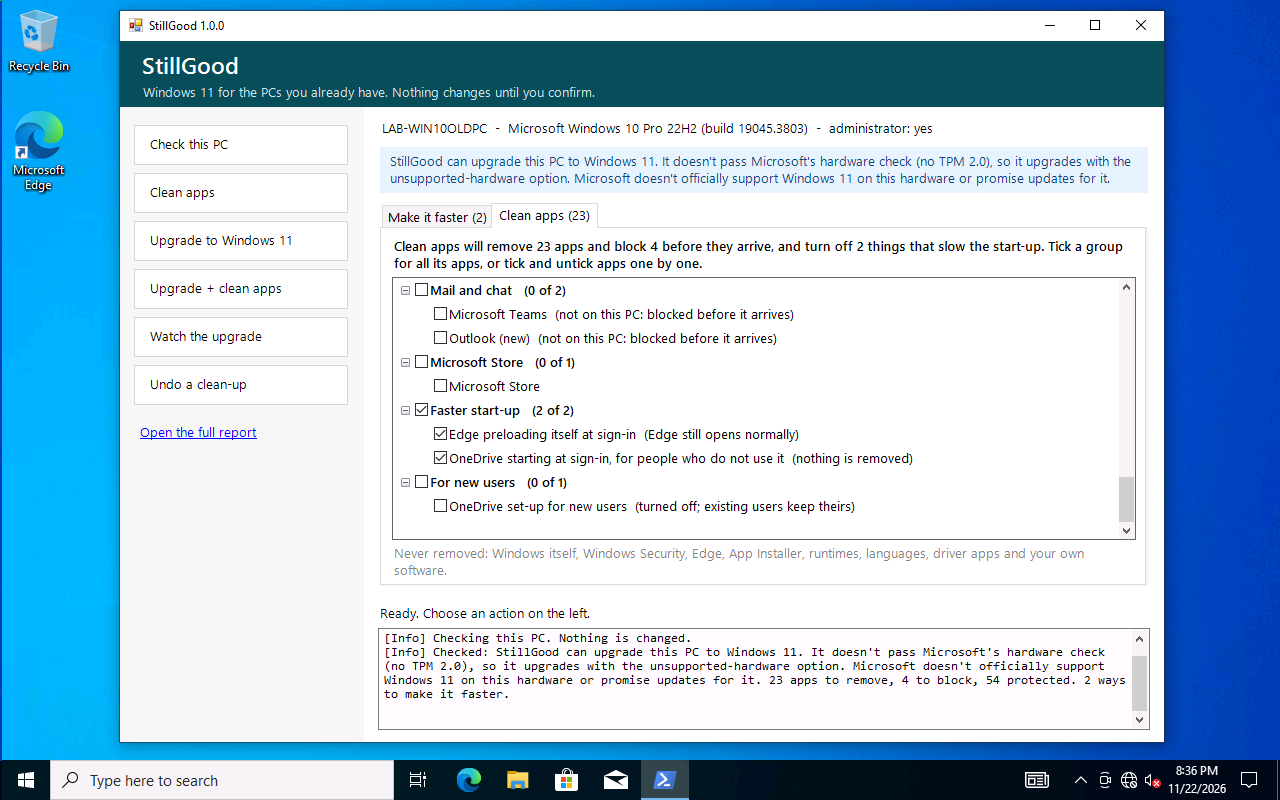
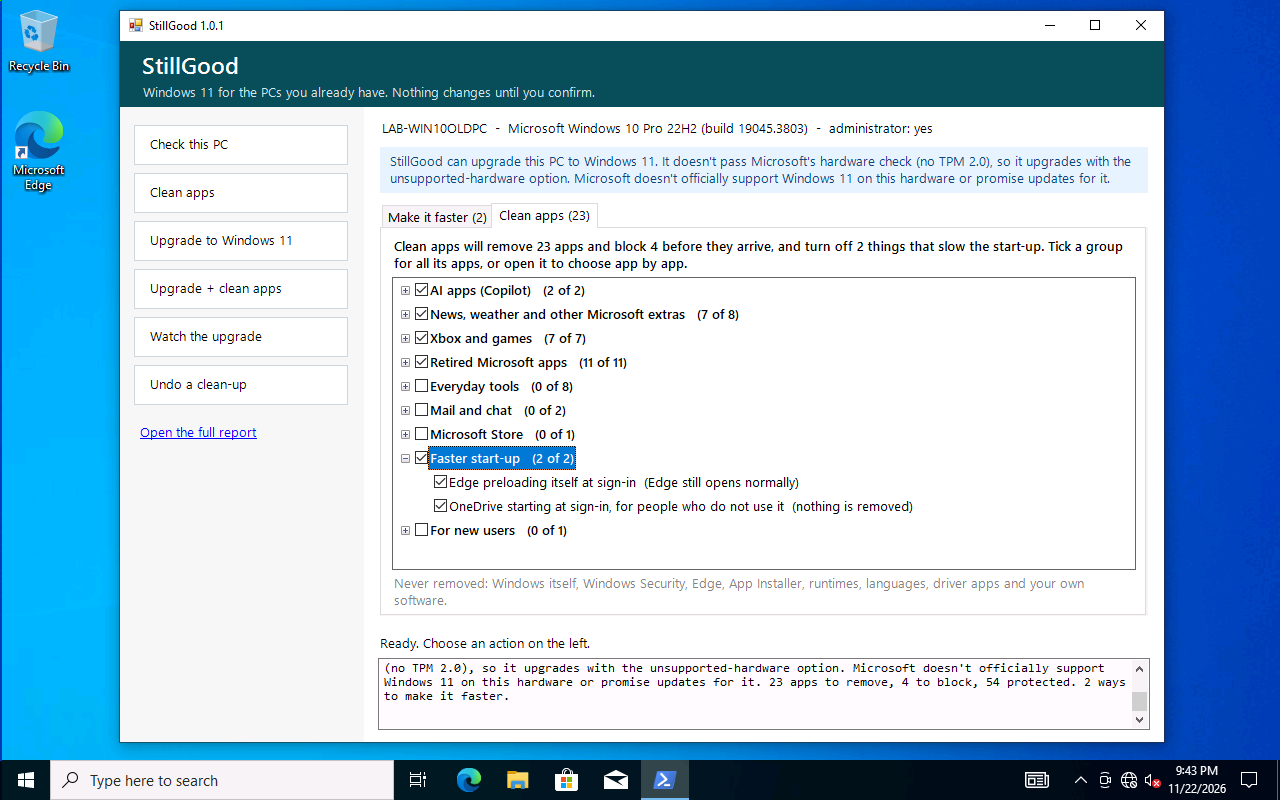
1.0.1: the window fits the screen, groups start folded, and Watch the upgrade works
- The window opens sized to the screen it is on: an old laptop's whole working
  area, a bit more room on a large monitor (it was a fixed 1060x740, which on
  a 2560x1440 screen left about five rows of the list).
- The groups start folded, so every group and its count fits without
  scrolling; open one to choose app by app. The log takes less room.
- A PC already on Windows 11 is told so, without "Windows 11:" twice.
- Watch the upgrade threw under strict mode before the progress window had
  ever been opened ($script:Mon.Form on an empty hashtable), so the window
  never appeared, from the button or after starting an upgrade. The upgrade
  itself was never affected. Found by filming the lab upgrade for a demo;
  fixed with index access, and a test.

Checked in the lab at 1280x800, 1366x768 and 2560x1440 at 125 percent, and
the progress window on a real upgrade (Windows 10 to 11, 18 minutes, PASSED).

Changed region(s): [[0.2812, 0.3125, 0.9062, 0.875], [0.875, 0.5938, 0.9062, 0.6562], [0.9062, 0.9375, 0.9375, 0.9688]]

diff --git a/README.md b/README.md
@@ -58,7 +58,7 @@ A VM can't show everything: a real spinning disk, a weak graphics chip, the powe
 - **Catalog-driven.** Only apps listed in [`catalog/apps.json`](catalog/apps.json) are ever removed. Unknown apps are kept and listed in the report.
 - **A protected list enforced in code** ([`modules/Guard.psm1`](modules/Guard.psm1)): runtimes and frameworks, the Windows shell, Start, Search and Settings, Windows Security, codecs, App Installer, languages and speech, driver companion apps, Edge and WebView2, anything Windows marks as a system component or non-removable, and your organization's own software. No catalog or switch can turn it off. The guard is checked when the plan is made, and again right before each removal.
 - **Never touches security or services.** The toolkit can write only to a short list of registry settings. Defender, the firewall, Windows Update, UAC, BitLocker and licensing are refused in code, even if the list were widened by mistake. It doesn't stop or disable any service.
-- **You choose, app by app.** Every app StillGood can remove sits in a group (AI apps, news and extras, Xbox and games, retired apps, everyday tools, mail and chat, the Store...), each with its own tick: tick a group for all its apps, or untick one app to keep it. The defaults suit an office PC: the everyday tools (Calculator, Photos, Snipping Tool, Paint, Camera, Media Player, To Do, Quick Assist), Outlook, Teams and the Store start unticked. For a kiosk or a till, tick them. The two start-up items have a group of their own.
+- **You choose, app by app.** Every app StillGood can remove sits in a group (AI apps, news and extras, Xbox and games, retired apps, everyday tools, mail and chat, the Store...), each with its own tick: tick a group for all its apps, or open it and untick one app to keep it. The groups start folded, so the whole list fits on the screen. The defaults suit an office PC: the everyday tools (Calculator, Photos, Snipping Tool, Paint, Camera, Media Player, To Do, Quick Assist), Outlook, Teams and the Store start unticked. For a kiosk or a till, tick them. The two start-up items have a group of their own.
 - **OneDrive safety.** OneDrive is never removed, for anyone. It stops starting at sign-in only for people with no files in it who aren't signed in to it. Turning off its set-up for new users is a choice of its own, unticked by default.
 - **Honest progress.** Time left is shown only where it can be measured: the download and the image check. During Setup, the monitor shows Setup's own reported percentage, whether Setup is working, and the last line of its log. There are no invented countdowns.
 - **Everything logged, everything undoable, safe to run again.** Each run writes a readable log, a machine log, the plan, the result and an undo file. A second run acts only on what is still there.
@@ -88,7 +88,7 @@ Requirements: Windows 10 version 2004 or later, or Windows 11, on 64-bit x64; Wi
 
 ![The StillGood window on a lab PC](docs/window.png)
 
-The left column lists the actions. In the middle you see the PC and its Windows 11 verdict, then two tabs. *Make it faster* lists what slows this PC down and what to do. *Clean apps* has one list of everything Clean apps can do, under its group, each with its own tick: tick a group for all of it, or untick one app to keep it. The line above the list says exactly what will go. The log at the bottom shows what StillGood is doing. The upgrade is watched in a small window of its own, which you can leave open after closing the main one.
+The left column lists the actions. In the middle you see the PC and its Windows 11 verdict, then two tabs. *Make it faster* lists what slows this PC down and what to do. *Clean apps* lists everything Clean apps can do, in groups that start folded so they all fit: tick a group for all of it, or open it and untick one app to keep it. The line above the list says exactly what will go. The window opens sized to the screen: the whole working area of an old laptop, a bit more room on a large monitor. The log at the bottom shows what StillGood is doing. The upgrade is watched in a small window of its own, which you can leave open after closing the main one.
 
 **From a script, a terminal or an RMM tool:**
 
@@ -192,7 +192,7 @@ The window itself is tested by hand on a lab VM: it is opened with `StillGood.cm
 
 ## Status
 
-**v1.0.** All three blocks are built and lab-proven, including the full upgrade from Windows 10 with its restarts. One lab, English Windows, no fleet numbers yet: test it on your own PCs first.
+**v1.0.1.** All three blocks are built and lab-proven, including the full upgrade from Windows 10 with its restarts. One lab, English Windows, no fleet numbers yet: test it on your own PCs first.
 
 **Proven in the lab (2026-11-22):**
 - **55 offline tests** against a fake PC (`tests/Run-Tests.ps1`).
@@ -215,6 +215,7 @@ The window itself is tested by hand on a lab VM: it is opened with `StillGood.cm
 - On Windows 10, removing an app for every user while it is still set up for new users fails at Windows' clean-up step (`0x80070002`), so every removal was reported as an error. StillGood now removes the new-user copy first, which takes every user's copy with it: no errors on Windows 10, 31 of 31 on Windows 11.
 - The processor check now recognises Xeon E3/E5/E7 (v1 to v6) and the 2013-2016 Atom-class Celeron and Pentium as not on Microsoft's list. They used to show as unknown, which made the report say "probably supported".
 - Windows 11 creates an empty OneDrive folder for every user, and writes a OneDrive folder path in the registry before anyone signs in. StillGood first took both as "uses OneDrive" and, safely, did nothing. It now looks for files in the folder and for a signed-in account.
+- Filming the upgrade for a demo showed that *Watch the upgrade* threw an error instead of opening its progress window: under PowerShell's strict mode, reading a window that was never opened failed. The upgrade itself was never affected. Fixed in 1.0.1, with a test.
 
 **Known limits:**
 1. Not run in the lab: the download, stall and drop-folder paths (the lab VMs have no network), sign-out during Setup, and a forced rollback. They have offline tests only.
